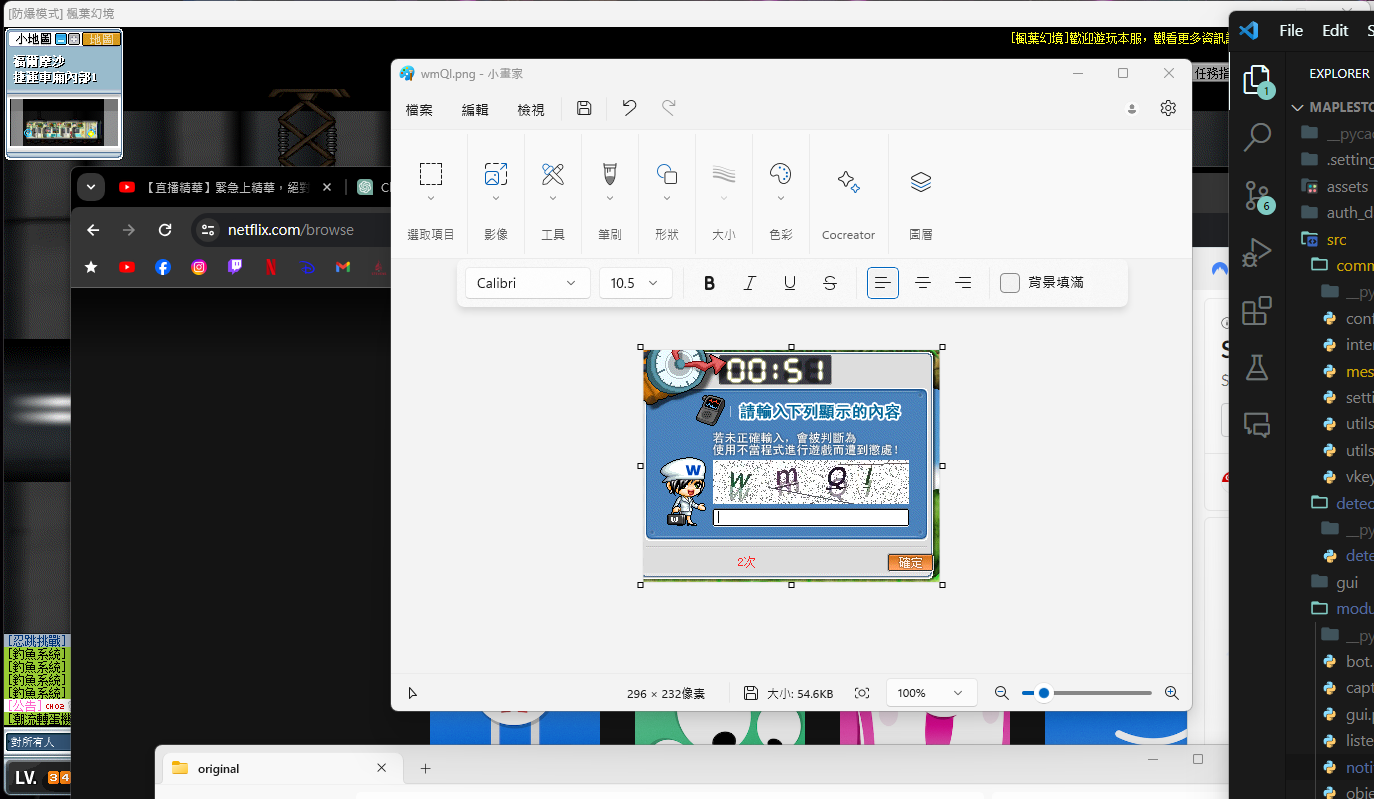
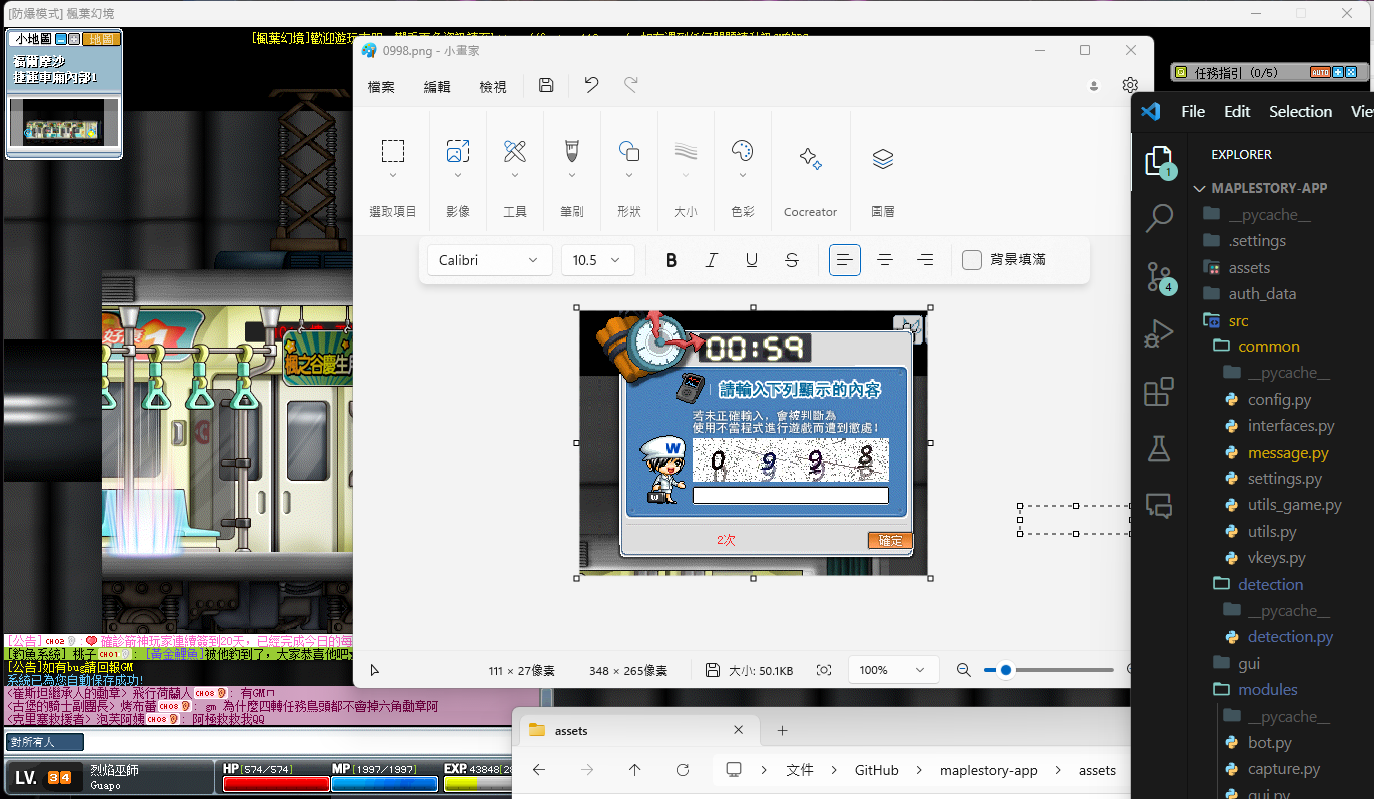
update entry box detection

diff --git a/src/modules/notifier.py b/src/modules/notifier.py
@@ -20,7 +20,7 @@ from src.detection.detection import solve_auth, type_auth
 #     ((60,130,180), (80, 148, 199)),
 # )
 AUTH_TEMPLATE = cv2.imread('assets/auth_template.png', 0)
-
+AUTH_ENTRY_TEMPLATE = cv2.imread('assets/auth_entry_template.png', 0)
 GIFT_TEMPLATE = cv2.imread('assets/gift_template.png', 0)
 
 # auth_filtered = utils.filter_color(cv2.imread('assets/auth_template.png'), AUTH_RANGES)
@@ -59,12 +59,13 @@ class Notifier:
                     time.sleep(1)
 
                 auth = utils.multi_match(frame, AUTH_TEMPLATE, threshold=0.8)
+                entry = utils.multi_match(frame, AUTH_ENTRY_TEMPLATE, threshold=0.8)
 
                 # found the auth save the auth
-                if auth:
+                if auth and entry:
                     print(" -  Auth event detected!")
                     cv2.imwrite('auth.png', frame)
-                    self._solve_auth(frame, auth[0])
+                    self._solve_auth(frame, auth[0], entry[0])
             time.sleep(0.1)
 
     def _click_gift(self, gift_pos):
@@ -75,7 +76,7 @@ class Notifier:
         click(gift_pos)
 
 
-    def _solve_auth(self, frame, auth_pos):
+    def _solve_auth(self, frame, auth_pos, entry_pos):
         """Solve the authentication event."""
         
         def filter_alphanumeric(text):
@@ -108,15 +109,16 @@ class Notifier:
         
         print(f' -  Auth code: {code}')
         code = filter_alphanumeric(code)
-        original, filtered = self.folder_check()
+
+        original = 'auth_data/original'
+        os.makedirs(original, exist_ok=True)
         
         current_time = datetime.now().strftime("%Y-%m-%d_%H-%M-%S")
         original_path = f'{original}/{current_time}__{code}.png'
-        # filtered_path = f'{filtered}/{current_time}__{code}.png'
 
         cv2.imwrite(original_path, cropped)
 
-        type_auth(code, tl)
+        type_auth(code, entry_pos)
 
         time.sleep(10)
         time.sleep(0.1)
@@ -124,34 +126,3 @@ class Notifier:
         # resume the program
         config.locked = False
     
-
-
-    def folder_check(self):
-        """
-        Check if the auth_data folder exists.
-        If not, create one.
-        
-        return: the path of the original and filtered folder.
-        """
-        
-        folder_path = 'auth_data'
-        if not os.path.exists(folder_path):
-            os.mkdir(folder_path)
-
-        original = folder_path + '/original'
-        if not os.path.exists(original):
-            os.mkdir(original)
-        
-        filtered = folder_path + '/filtered'
-
-        if not os.path.exists(filtered):
-            os.mkdir(filtered)
-
-        return original, filtered
-
-
-
-
-# save the image
-
-

diff --git a/src/detection/detection.py b/src/detection/detection.py
@@ -1,6 +1,9 @@
 import io
+import os
+import cv2
 import time
 import numpy as np
+from datetime import datetime
 from PIL import Image
 import pydirectinput as p_in
 from src.common import config, utils
@@ -38,7 +41,7 @@ def solve_auth(image_np_array):
 
 
 @utils.run_if_enabled
-def type_auth(code, auth_pos):
+def type_auth(code, entry_pos):
     """
     Type the authentication code.
 
@@ -46,15 +49,15 @@ def type_auth(code, auth_pos):
     :param auth_pos: the position of the authentication box.
     """
     p_in.PAUSE = 0.01
-    auth_pos = list(auth_pos)
-    x_bias, y_bias = 50, 85
+    entry_pos = list(entry_pos)
+    x_bias, y_bias = 90, 30
 
-    auth_pos[0] += x_bias
-    auth_pos[1] += y_bias
+    entry_pos[0] += x_bias
+    entry_pos[1] += y_bias
 
     # click the auth box
-    p_in.click(auth_pos[0], auth_pos[1])
-    p_in.click(auth_pos[0], auth_pos[1])
+    p_in.click(entry_pos[0], entry_pos[1])
+    p_in.click(entry_pos[0], entry_pos[1])
 
     # # type the code
     for c in code:
@@ -65,10 +68,17 @@ def type_auth(code, auth_pos):
 
 
     if BOT_TOKEN and CHAT_ID:
-        flag = True
 
         # take a screenshot
         frame = config.capture.screenshot()
+
+        check = 'auth_data/check'
+        os.makedirs(check, exist_ok=True)
+        
+        # save the image to the given directory
+        current_time = datetime.now().strftime("%Y-%m-%d_%H-%M-%S")
+        check_path = f'{check}/{current_time}__{code}.png'
+        cv2.imwrite(check_path, frame)
 
         # send telegram message
         send_message_in_thread(f'Auth Code: {code}')
@@ -77,7 +87,3 @@ def type_auth(code, auth_pos):
     p_in.press('enter')
     time.sleep(1)
     p_in.press('enter')
-
-
-
-
